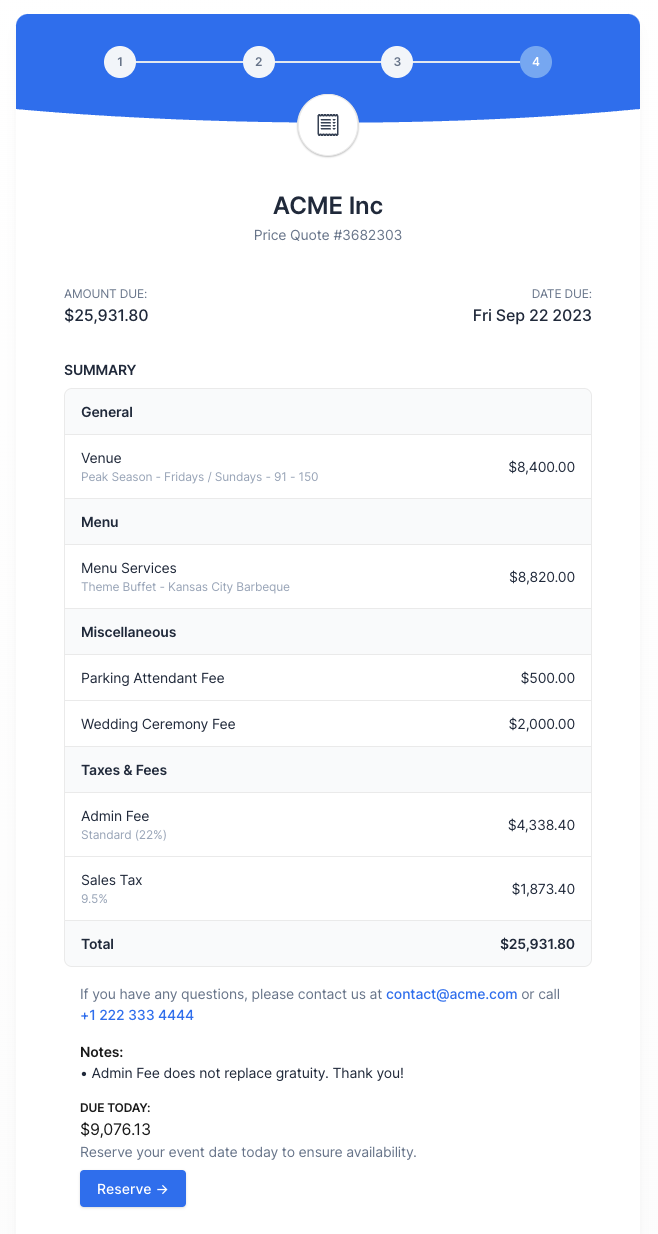
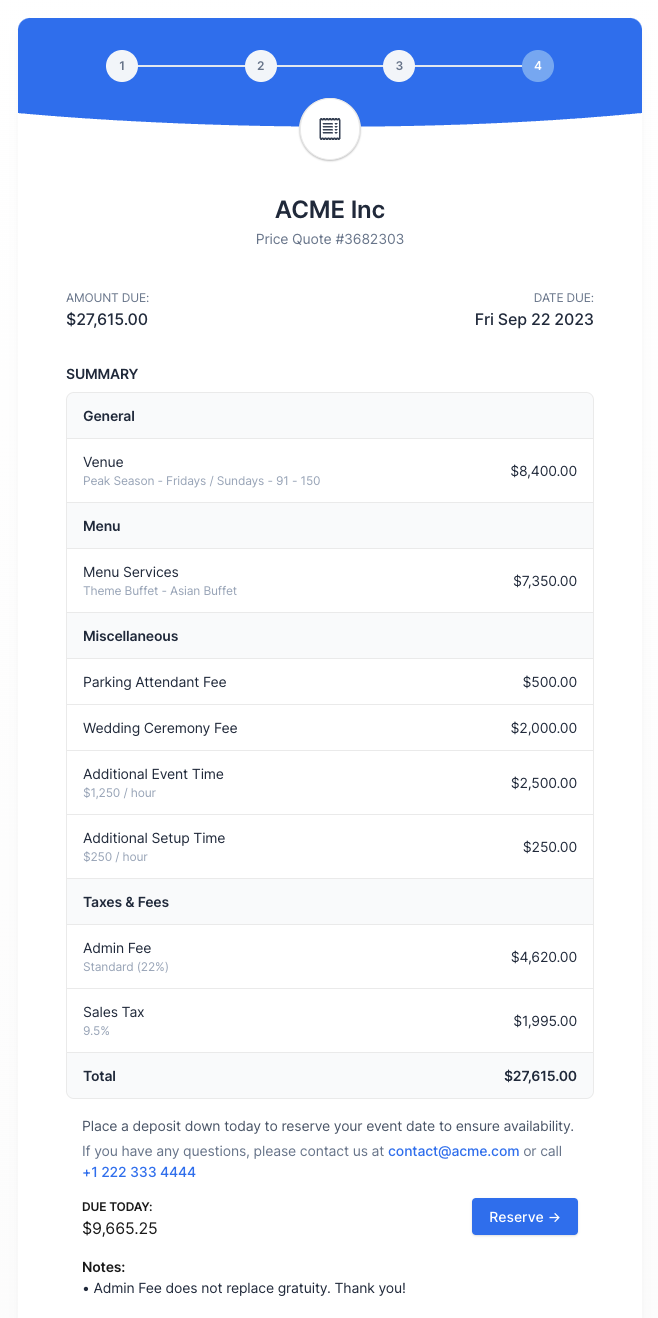
Fix demo and re-organize pricing page

diff --git a/components/estimator/price-quote.tsx b/components/estimator/price-quote.tsx
@@ -3,7 +3,6 @@ import _ from "lodash";
 
 import {
   Customer,
-  getConditions,
   getLineItems,
   getVenue,
 } from "@/components/estimator/data";
@@ -108,7 +107,10 @@ export default function PriceQuote({
         <LineItems venue={venue} costs={costs} />
       </div>
       <div className="mt-4 px-4">
-        <p className="text-sm text-slate-500">
+        <p className="text-sm text-slate-600">
+          Place a deposit down today to reserve your event date to ensure availability.
+        </p>
+        <p className="mt-1 text-sm text-slate-500">
           If you have any questions, please contact us at{" "}
           <a
             className="inline-flex items-center gap-x-1.5 text-blue-600 decoration-2 hover:underline font-medium"
@@ -126,6 +128,29 @@ export default function PriceQuote({
         </p>
       </div>
 
+      {venue.depositPercentage && (
+        <div className="px-4 mt-4 flex justify-between">
+          <div>
+            <div className="text-xs uppercase font-semibold">Due Today:</div>
+            <div className="text-md flex">
+            <span>
+              {CURRENCY_FORMAT.format(
+                calcTotal(costs, venue, true) * venue.depositPercentage
+              )}
+            </span>
+            </div>
+          </div>
+          <div>
+            <button className="btn-sm text-sm text-white bg-blue-600 hover:bg-blue-700 group">
+              <span>Reserve</span>
+              <span className="tracking-normal text-white group-hover:translate-x-0.5 transition-transform duration-150 ease-in-out ml-1">
+              -&gt;
+            </span>
+            </button>
+          </div>
+        </div>
+      )}
+
       {venue.notes && (
         <div className="mt-4 px-4">
           <div className="text-sm font-semibold">Notes:</div>
@@ -139,30 +164,8 @@ export default function PriceQuote({
         </div>
       )}
 
-      {venue.depositPercentage && (
-        <div className="px-4 mt-4">
-          <div className="text-xs uppercase font-semibold">Due Today:</div>
-          <div className="text-md flex">
-            <span>
-              {CURRENCY_FORMAT.format(
-                calcTotal(costs, venue, true) * venue.depositPercentage
-              )}
-            </span>
-          </div>
-          <div className="text-sm text-slate-500">
-            Reserve your event date today to ensure availability.
-          </div>
-          <button className="btn-sm text-sm mt-2 text-white bg-blue-600 hover:bg-blue-700 group">
-            <span>Reserve</span>
-            <span className="tracking-normal text-white group-hover:translate-x-0.5 transition-transform duration-150 ease-in-out ml-1">
-              -&gt;
-            </span>
-          </button>
-        </div>
-      )}
-
       {/*<!-- Buttons -->*/}
-      <div className="mt-8 flex justify-end gap-x-2">
+      <div className="mt-8 flex justify-start gap-x-2">
         <button
           className="btn-sm text-sm text-white bg-blue-600 hover:bg-blue-700 group"
           onClick={() => restart()}

diff --git a/components/estimator/data/demo.ts b/components/estimator/data/demo.ts
@@ -44,7 +44,7 @@ const HEADCOUNT_OVER_100: Condition = {
   id: "C-19",
   variableId: HEADCOUNT_VAR.id,
   type: ConditionType.GTE,
-  condition: 100,
+  condition: 1, // TODO: change back to 100 later
 };
 
 export const VARIABLES: Variable[] = [
@@ -121,11 +121,13 @@ export const VARIABLES: Variable[] = [
     type: VariableType.Select,
     required: false,
     options: [
-      "à la carte",
-      "Buffet", // TODO: conditions to display certain options, only can choose this if >=100
+      "Kansas City Barbeque",
+      "Asian"
+      // "à la carte",
+      // "Buffet", // TODO: conditions to display certain options, only can choose this if >=100
     ],
     label: "Which dining option would you like?",
-    subtext: "Buffets can only be served to party sizes greater than 100"
+    // subtext: "Buffets can only be served to party sizes greater than 100"
   },
   {
     id: "V13",
@@ -302,40 +304,16 @@ const DINING_A_LA_CARTE: Condition = {
 };
 const BUFFET_KANSAS_CITY_BARBEQUE: Condition = {
   id: "C-17",
-  variableId: buffet.id,
+  variableId: dining.id, // TODO: change back to buffet
   type: ConditionType.Equal,
   condition: "Kansas City Barbeque"
 };
 const BUFFET_ASIAN: Condition = {
   id: "C-18",
-  variableId: buffet.id,
+  variableId: dining.id, // TODO: change back to buffet
   type: ConditionType.Equal,
   condition: "Asian"
 };
-
-export const CONDITIONS = [
-  PEAK_SEASON,
-  WINTER,
-  WEEKDAYS,
-  FRIDAYS_SUNDAYS,
-  SATURDAYS,
-  HEADCOUNT_UP_TO_90,
-  ...HEADCOUNT_91_TO_150,
-  HEADCOUNT_UP_TO_150,
-  WANT_PARKING_ATTENDANT,
-  WANT_WEDDING_CEREMONY,
-  IS_OUTDOOR_DINING,
-  IS_NOT_OUTDOOR_DINING,
-  HAS_ADDITIONAL_EVENT_TIME,
-  HAS_ADDITIONAL_SETUP_TIME,
-  DINING_A_LA_CARTE,
-  BUFFET_KANSAS_CITY_BARBEQUE,
-  BUFFET_ASIAN,
-  HEADCOUNT_OVER_100,
-].reduce<Record<string, Condition>>((acc, c) => {
-  acc[c.id] = c;
-  return acc;
-}, {})
 
 const VENUE_TERMS: Term[] = [
   {
@@ -453,14 +431,14 @@ const CEREMONY_FEE: LineItem = {
 };
 
 const MENU_TERMS: Term[] = [
-  {
-    id: "TM-1",
-    name: "Dining - à la carte",
-    items: [
-      // TODO: implement line items for a la carte
-    ],
-    conditions: [[DINING_A_LA_CARTE]],
-  },
+  // {
+  //   id: "TM-1",
+  //   name: "Dining - à la carte",
+  //   items: [
+  //     // TODO: implement line items for a la carte
+  //   ],
+  //   conditions: [[DINING_A_LA_CARTE]],
+  // },
   {
     id: "TM-3",
     name: "Theme Buffet - Kansas City Barbeque",

diff --git a/components/estimator/data/index.ts b/components/estimator/data/index.ts
@@ -12,11 +12,6 @@ export function getVariables(customer: Customer): Variable[] {
   return VARIABLES || [];
 }
 
-export function getConditions(customer: Customer): Record<string, Condition> {
-  const { CONDITIONS } = require(`./${customer}`);
-  return CONDITIONS || [];
-}
-
 export function getLineItems(customer: Customer): LineItem[] {
   const { LINE_ITEMS } = require(`./${customer}`);
   return LINE_ITEMS || [];
